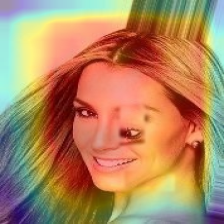
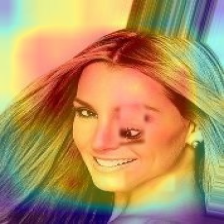
changes to main.py on flipped nslm inverted images

diff --git a/code/main.py b/code/main.py
@@ -186,7 +186,7 @@ def compute_dataset_metrics_cnn_from_lists(
     return {"PR_mean": PR.mean(0), "CD": CD, "N_LAY": N_LAY}
 
 
-def gradcam_one_cnn(model, target_layer, img_path, out_dir, AVG, img_size, device, tag: str):
+def gradcam_one_cnn(model, target_layer, img_path, out_dir, AVG, img_size, device, tag: str, flip_lr: bool = False):
     """Generate and save a Grad-CAM overlay as '<tag>.png' in out_dir (CNN)."""
     cam = GradCAM(model, target_layer)
     x, rgb = preprocess_cv(img_path, img_size, AVG, device)
@@ -195,12 +195,11 @@ def gradcam_one_cnn(model, target_layer, img_path, out_dir, AVG, img_size, devic
     out_dir.mkdir(parents=True, exist_ok=True)
     op = out_dir / f"{tag}.png"
     im = (overlay.permute(1, 2, 0).detach().cpu().numpy() * 255).astype(np.uint8)
+    if flip_lr:
+        im = np.ascontiguousarray(im[:, ::-1, :])
     cv2.imwrite(str(op), cv2.cvtColor(im, cv2.COLOR_RGB2BGR))
 
-
-# -----------------------
 # VGG-16
-# -----------------------
 def load_vgg16(model_path: pathlib.Path, img_size: int, device: torch.device):
     """Load custom VGG-16 and centering mean image (zeros if 'average' missing)."""
     ckpt = torch.load(model_path, map_location="cpu")
@@ -262,7 +261,8 @@ def run_vgg16_pipeline(args, folders_by_ds: Dict[str, Dict[str, List[pathlib.Pat
                 for i, fp in enumerate(files):
                     tag = tag_base if args.cam_per_class == 1 else f"{tag_base}_{i+1}"
                     try:
-                        gradcam_one_cnn(model, target_layer, fp, saldir, AVG, args.img_size, device, tag)
+                        flip = (name == "NonSemantic" and cls == "inverted_thatcher")
+                        gradcam_one_cnn(model, target_layer, fp, saldir, AVG, args.img_size, device, tag, flip_lr=flip)
                     except Exception as e:
                         print(f"[CAM:{name}/{cls}] {fp.name}: {e}")
 
@@ -368,7 +368,8 @@ def run_vggface_pipeline(args, folders_by_ds: Dict[str, Dict[str, List[pathlib.P
                 for i, fp in enumerate(files):
                     tag = tag_base if args.cam_per_class == 1 else f"{tag_base}_{i+1}"
                     try:
-                        gradcam_one_cnn(model, target_layer, fp, saldir, AVG, args.img_size, device, tag)
+                        flip = (name == "NonSemantic" and cls == "inverted_thatcher")
+                        gradcam_one_cnn(model, target_layer, fp, saldir, AVG, args.img_size, device, tag, flip_lr=flip)
                     except Exception as e:
                         print(f"[CAM:{name}/{cls}] {fp.name}: {e}")
 
@@ -432,13 +433,15 @@ def preprocess_vit(path: pathlib.Path, transform: T.Compose, device: torch.devic
     return tensor, rgb
 
 
-def gradcam_one_vit(model, target_layer, reshape_transform, img_path, out_dir, transform, device, tag: str):
+def gradcam_one_vit(model, target_layer, reshape_transform, img_path, out_dir, transform, device, tag: str, flip_lr: bool = False):
     """Generate and save a grad-cam overlay for ViT as '<tag>.png' in out_dir."""
     cam = ViTGradCAM(model=model, target_layers=[target_layer], reshape_transform=reshape_transform)
     tensor, rgb_img = preprocess_vit(img_path, transform, device)
     targets = [ClassifierOutputTarget(0)]  # mirrors existing behavior
     cam_map = cam(input_tensor=tensor, targets=targets)[0]
     overlay = show_cam_on_image(rgb_img, cam_map, use_rgb=True, colormap=cv2.COLORMAP_JET)
+    if flip_lr:
+        overlay = np.ascontiguousarray(overlay[:, ::-1, :])
     out_dir.mkdir(parents=True, exist_ok=True)
     out_path = out_dir / f"{tag}.png"
     Image.fromarray(overlay).save(out_path)
@@ -520,7 +523,8 @@ def run_vit_pipeline(args, folders_by_ds: Dict[str, Dict[str, List[pathlib.Path]
                 for i, fp in enumerate(files):
                     tag = tag_base if args.cam_per_class == 1 else f"{tag_base}_{i+1}"
                     try:
-                        gradcam_one_vit(model, target_layer, reshape_transform, fp, saldir, transform, device, tag)
+                        flip = (name == "NonSemantic" and cls == "inverted_thatcher")
+                        gradcam_one_vit(model, target_layer, reshape_transform, fp, saldir, transform, device, tag, flip_lr=flip)
                     except Exception as e:
                         print(f"[CAM:{name}/{cls}] {fp.name}: {e}")
 
@@ -534,9 +538,7 @@ def run_vit_pipeline(args, folders_by_ds: Dict[str, Dict[str, List[pathlib.Path]
     print("✓ ViT: Saliency overlays →", saldir)
 
 
-# ======================================================================
 # ViT-Face
-# ======================================================================
 def load_vitface(model_path: pathlib.Path, device: torch.device):
     """Load ViT-Face model (vit_face.ViT_face) and return in eval mode."""
     from vit_face import ViT_face
@@ -616,7 +618,7 @@ class _ViTFaceFeatHook:
 
 def vitface_single_heatmap(
     model, img_path: pathlib.Path, out_path: pathlib.Path,
-    size: int = 112, head_reduce: str = "mean", layer_mode: str = "dynamic"
+    size: int = 112, head_reduce: str = "mean", layer_mode: str = "dynamic", flip_lr: bool = False
 ):
     """Produce ONE attention-based heatmap for ViT-Face and save to out_path."""
     img_pil = Image.open(img_path).convert('RGB').resize((size, size))
@@ -657,6 +659,8 @@ def vitface_single_heatmap(
     hm_u8 = (cm(hm) * 255).astype(np.uint8)
     fg = Image.fromarray(hm_u8).convert('RGBA')
     out_img = Image.blend(img_pil.convert('RGBA'), fg, alpha=0.5).convert("RGB")
+    if flip_lr:
+        out_img = out_img.transpose(Image.FLIP_LEFT_RIGHT)
     out_path.parent.mkdir(parents=True, exist_ok=True)
     out_img.save(out_path)
 
@@ -732,8 +736,9 @@ def run_vitface_pipeline(args, folders_by_ds: Dict[str, Dict[str, List[pathlib.P
                 for i, fp in enumerate(files):
                     tag = tag_base if args.cam_per_class == 1 else f"{tag_base}_{i+1}"
                     try:
+                        flip = (name == "NonSemantic" and cls == "inverted_thatcher")
                         vitface_single_heatmap(model, fp, saldir / f"{tag}.png",
-                                               size=size, head_reduce="mean", layer_mode="dynamic")
+                                               size=size, head_reduce="mean", layer_mode="dynamic", flip_lr=flip)
                     except Exception as e:
                         print(f"[CAM:{name}/{cls}] {fp.name}: {e}")
 
@@ -747,9 +752,8 @@ def run_vitface_pipeline(args, folders_by_ds: Dict[str, Dict[str, List[pathlib.P
     print("✓ ViT-Face: Saliency overlays →", saldir)
 
 
-# -----------------------
+
 # CLI
-# -----------------------
 def main():
     p = argparse.ArgumentParser(description="Thatcher/NSLM analysis (new data layout) with VGG-16, VGG-Face, ViT, and ViT-Face")
     p.add_argument("--model", choices=["vgg16", "vggface", "vit", "vitface", "run-all"], required=True,
